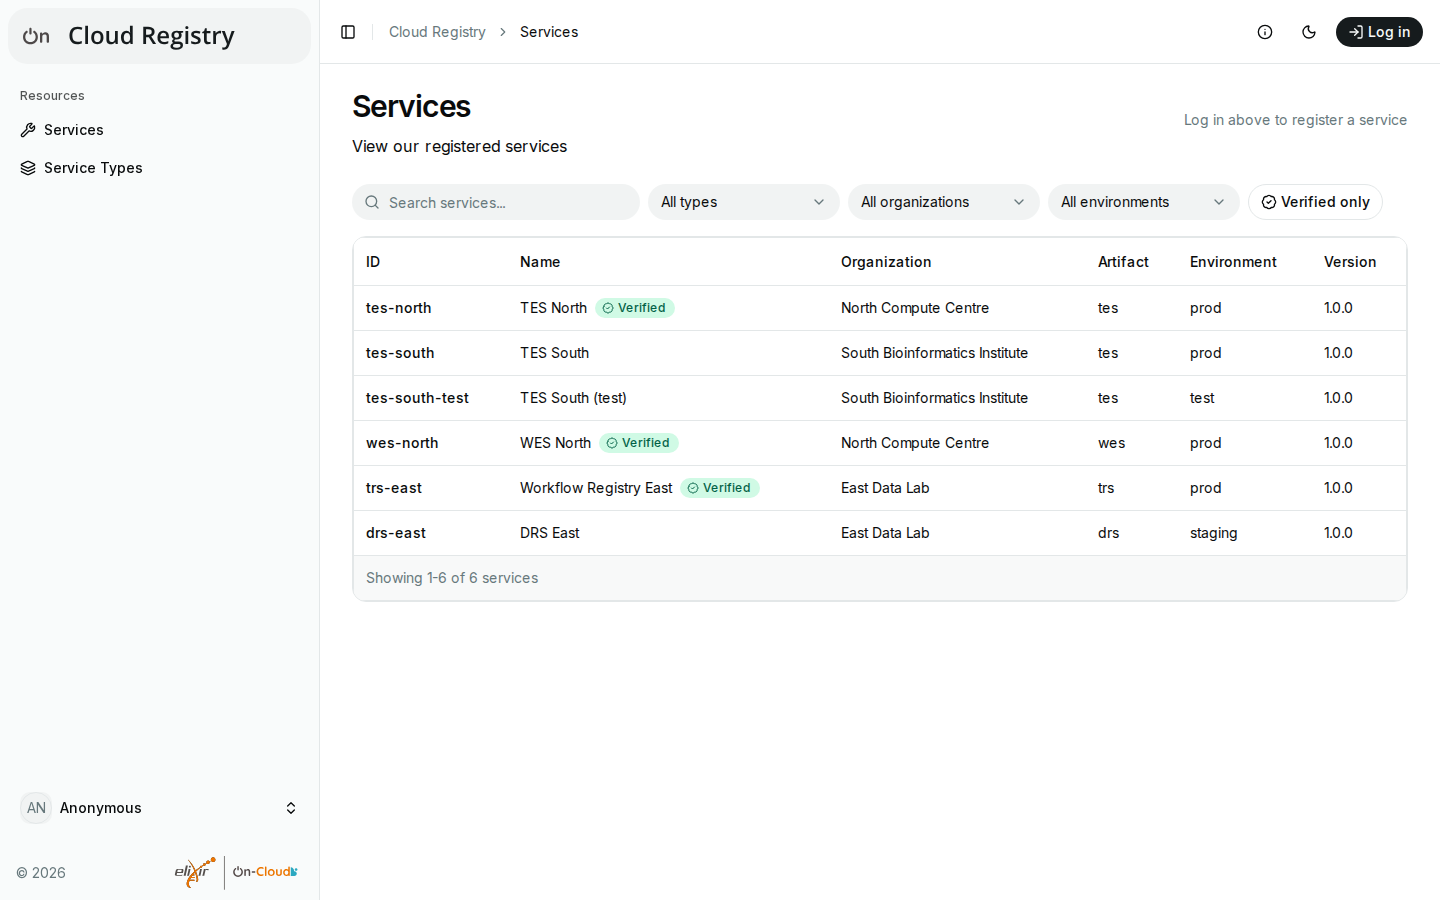
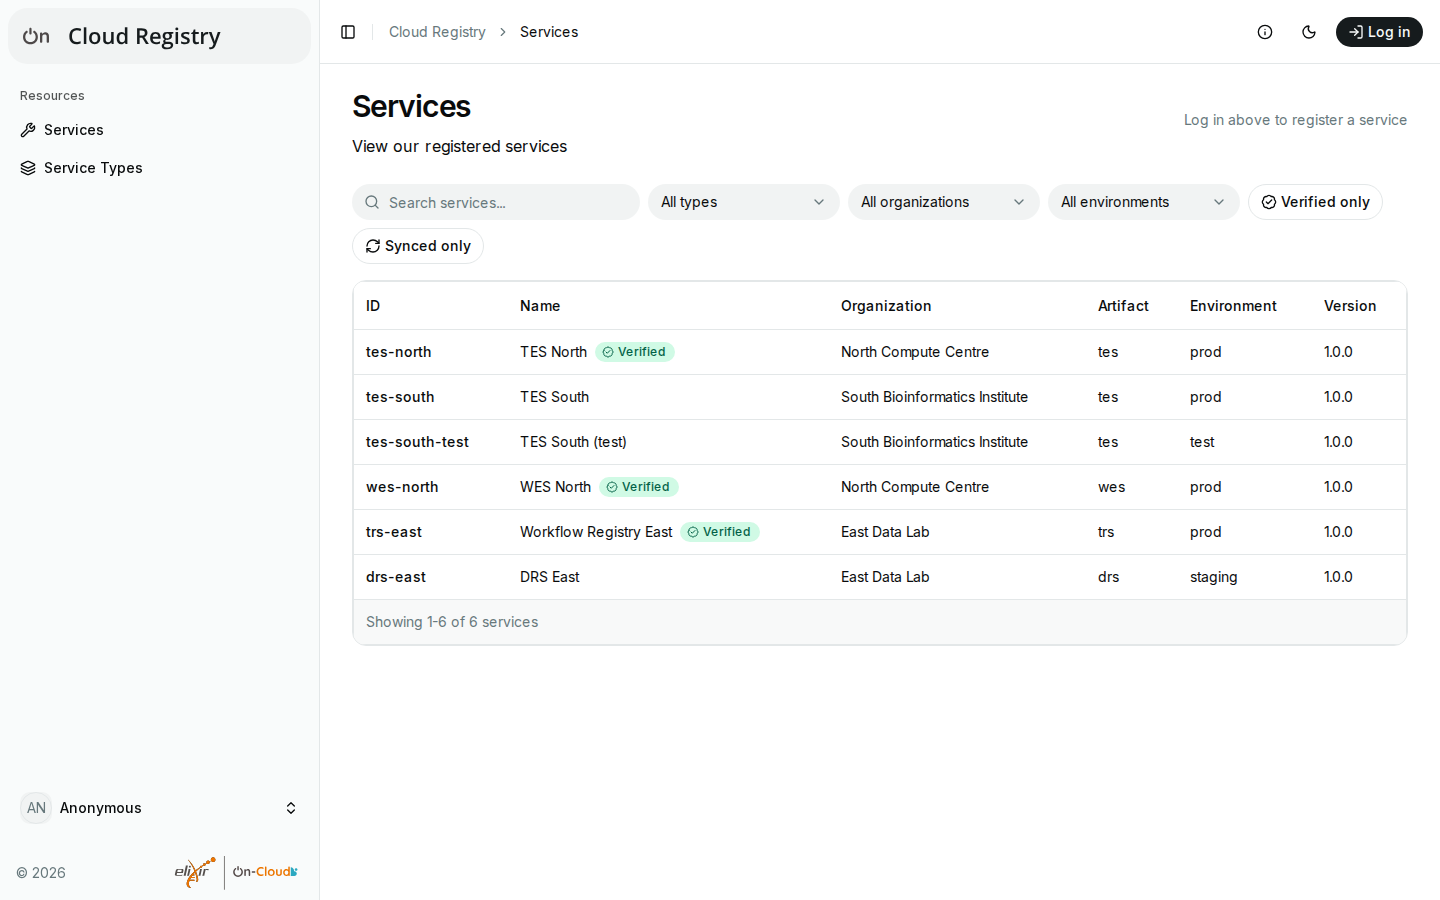
docs: describe syncing services
New page of the user guide, with what the labels mean, also that
verified and synced doesn't mean trusted. Retakes the screenshots that
show the label or the filter.

Refs #207

diff --git a/docs/user-guide/syncing.md b/docs/user-guide/syncing.md
@@ -1,0 +1,74 @@
+# Syncing services
+
+The registry can keep a service's entry up to date with the service's own
+[service info](https://cloud-registry.readthedocs.io/en/latest/api/#synced-services):
+it fetches it regularly, as the deployment sets, and updates the entry. Entries
+without sync can drift from what the service says about itself. Deployments that
+don't sync show none of this.
+
+## What the labels mean
+
+Next to the **Verified** mark, in the list and in the details of a service, the
+registry's label says how the sync stands:
+
+- **no label**: no sync, e.g. a manual entry, which may have drifted;
+- **Synced**: the last sync succeeded, and it was recent;
+- **Out of sync**: the last sync failed, or none succeeded in time. The entry keeps
+  its last values.
+
+**Verified and synced doesn't mean trusted.** Verified says that an admin checked this
+entry once, and synced that the service recently described itself in a way the registry
+could read. Both are facts about the entry, not about the service: service info is
+self-declared, and a service can change at any time. Decide yourself whom you trust.
+
+**Synced only**, above the list, shows only services in sync. To be on the safe side,
+use it together with **Verified only**.
+
+## The details of a service
+
+**Sync with service info**, in a service's details, shows the times of the last
+success and the last attempt and, if the service is out of sync, why:
+
+![The sync of a service, in its details](../images/service-sync.png){ width="512" }
+
+
+| Message | What to do |
+| --- | --- |
+| The service info can't be fetched | Check that the service is up, and that its service info is public: no tokens are sent. The registry retries a few times before the label changes |
+| The host resolves to an address that the registry may not fetch from | Ask the registry's operators, if the service is in a private network |
+| The service info doesn't pass the checks of a registration | Correct the service info, e.g. an environment that the registry doesn't allow |
+| The service info now describes another service | Something is seriously wrong: its `id`, or the group or artifact of its type, changed. If the new `id` is right, turn sync off and on again |
+| A new service type version awaits approval | Wait for an admin to approve it (see [Pending entries](pending.md)); the next sync applies it |
+| A service type version isn't registered, and only admins may add it | Ask the admins to add it |
+| The registrant has added as many unused service types as allowed | Remove types no service needs, or ask an admin |
+| The registry hasn't synced this service in time | Nothing failed, but syncs may not be running: tell the registry's operators |
+
+These texts are fixed: the registry doesn't pass on network errors. Those with a role
+on the service also get a notification.
+
+## Turning sync on and off
+
+Owners and maintainers of a service, and admins in [admin mode](admin-mode.md), have
+these buttons in its details:
+
+- **Turn sync on**, after a confirmation: the registry fetches the service info from the
+  service's URL followed by `/service-info`, and replaces the entry's values with it,
+  overriding manual changes. If the fetch fails, or the service info doesn't fit the
+  service, nothing changes and the app says so.
+- **Sync now**: syncs at once. A service info that can't be applied shows as **Out of
+  sync**, with the reason. If the fetch fails, or the service info describes another
+  service, nothing changes and the app says so; the regular syncs record these as
+  reasons.
+- **Turn sync off**: the entry keeps its values.
+
+Only publicly available service info can be synced, as no tokens are sent.
+
+## Changes while sync is on
+
+You can edit a synced service, but the next sync overrides the fields it covers: name,
+type, description, organization, contact and documentation URLs, environment and
+version. Its ID, URL and roles stay. A sync also keeps the **Verified** mark.
+
+The **Service URL** can't change while sync is on, not even for admins: the edit form
+says so if you change it, and the registry refuses it. To move a service, turn sync off
+first, or import and register it anew.

diff --git a/docs/operator-guide/configuration.md b/docs/operator-guide/configuration.md
@@ -36,7 +36,7 @@ The app's Content Security Policy lets browsers connect only to the app and to t
 
 The app follows the registry's rules for registrations, as the registry publishes them in its service info (`registrationRules` of `GET /service-info`, see the registry's [registration rules](https://cloud-registry.readthedocs.io/en/latest/api/#registration-rules)): the edit form offers and accepts only the environments that the registry allows (`custom.endpoints.services.environments`), also for services that already have another one (the registry checks them on every change), or any text if it allows any environment; it accepts only service URLs with the schemes that the registry allows (`custom.endpoints.services.url_schemes`); and the environment filter of the list shows the allowed environments that are in use first, in the registry's order. If the service info can't be read, or the registry publishes no rules (registries older than cloud-registry 1.0.0rc2), the edit form says so, takes any environment and any `http` or `https` service URL, and leaves the checks to the registry, which reports what it refuses when the form is sent. The app follows who may add service types (`custom.access_control.service_types`) and who is an admin through `GET /me`; the service info page shows all of the rules, and the service types page offers adding types to users other than admins only if they may have added unused types (`custom.access_control.max_unused_service_types` isn't `0`), and names the limit in its dialog. There is nothing to set for any of these in the app: change them in the registry, and the app follows without a restart.
 
-The registration form offers to import a service's service info, and to keep the entry in sync with it (see [Importing from service info](../user-guide/registering.md#importing-from-service-info)). There is nothing to set for this in the app either: the registry's settings (`custom.endpoints.services.service_info`, see its [service info import](https://cloud-registry.readthedocs.io/en/latest/configuration/#service-info-import) and [sync](https://cloud-registry.readthedocs.io/en/latest/configuration/#service-info-sync)) say whether it syncs and how often, which the app reads from the service info (`registrationRules.serviceInfoSync`) and shows, also on the service info page. If the registry doesn't sync, the app hides sync but keeps the import. With registries that don't publish this rule, it offers neither. Only publicly available service info can be imported or synced, as no tokens are sent: we strongly recommend that the operators of services make their service-info endpoints public, also as they tell people how to get access.
+The registration form offers to import a service's service info, and to keep the entry in sync with it (see [Importing from service info](../user-guide/registering.md#importing-from-service-info)). There is nothing to set for this in the app either: the registry's settings (`custom.endpoints.services.service_info`, see its [service info import](https://cloud-registry.readthedocs.io/en/latest/configuration/#service-info-import) and [sync](https://cloud-registry.readthedocs.io/en/latest/configuration/#service-info-sync)) say whether it syncs and how often, which the app reads from the service info (`registrationRules.serviceInfoSync`) and shows, also on the service info page. If the registry doesn't sync, the app hides sync (the option in the form, the labels and the controls of [Syncing services](../user-guide/syncing.md)) but keeps the import. With registries that don't publish this rule, it offers neither. Only publicly available service info can be imported or synced, as no tokens are sent: we strongly recommend that the operators of services make their service-info endpoints public, also as they tell people how to get access.
 
 The create form (from Cloud Components) reads the environments from the service info itself: it offers those that the registry publishes, and takes any text if they allow any (`[]`); with older registries, it offers the four default values.
 

diff --git a/docs/user-guide/registering.md b/docs/user-guide/registering.md
@@ -117,7 +117,7 @@ service info regularly, and updates the entry with it.
 - Deployments that don't sync don't show it; you can still import.
 
 If the first fetch fails, the service stays registered, without sync, and a message
-says so.
+says so. You can turn sync on later (see [Syncing services](syncing.md)).
 
 ### Known limitations
 
@@ -145,6 +145,12 @@ admin mode first (see [Admin mode](admin-mode.md)). With older registries, the
 app doesn't know the limit; those before 1.0.0rc1 have none.
 
 ## Editing a service
+
+If a service is kept in sync with its service info, the form says so: the next sync
+overrides your changes, and its **Service URL** can't change. If you change the URL
+anyway, the form says so, and the registry refuses it. To move such a service, turn
+sync off on its page first, or import and register it anew (see [Syncing
+services](syncing.md)).
 
 Owners and maintainers of a service, and admins, can edit it:
 

diff --git a/docs/operator-guide/upgrading.md b/docs/operator-guide/upgrading.md
@@ -84,7 +84,10 @@ access](../user-guide/access.md#managing-access)).
 public service info, and keep the new entry in sync with it (see [Importing from
 service info](../user-guide/registering.md#importing-from-service-info)). This takes
 no settings in the app; the registry's settings say whether it syncs and how often.
-With a registry older than 1.0.0rc2, the form has neither.
+With a registry older than 1.0.0rc2, the form has neither. Services then have the
+labels **Synced** and **Out of sync** and, for those with a role, controls on their
+page (see [Syncing services](../user-guide/syncing.md)). An out-of-sync label without
+a reason means that the registry's syncs aren't running: check the registry.
 
 **Listing the registry itself:** in admin mode, the service info page can list
 the registry among its own services (see [Listing the registry

diff --git a/docs/user-guide/browsing.md b/docs/user-guide/browsing.md
@@ -21,6 +21,8 @@ Above the list:
 - **All types**, **All organizations** and **All environments** show only
   services with the chosen value; **Not set** shows those without one.
 - **Verified only** shows only verified services.
+- **Synced only** shows only services in sync with their service info (see
+  [Syncing services](syncing.md)), if the deployment syncs.
 - **My services** (logged-in users) shows only the services you are
   responsible for: those on which you have a role, owner or maintainer,
   granted to you or to one of your groups (see [Access and

diff --git a/docs/user-guide/verifications.md b/docs/user-guide/verifications.md
@@ -9,6 +9,8 @@ the list shows only them.
 
 Clients can rely on verifications, e.g. a gateway that sends tasks only to
 verified TES services: they apply to the service as it was checked.
+**Verified doesn't mean trusted**, also together with **Synced** (see [Syncing
+services](syncing.md#what-the-labels-mean)): decide yourself whom you trust.
 
 ## When verifications are removed
 
